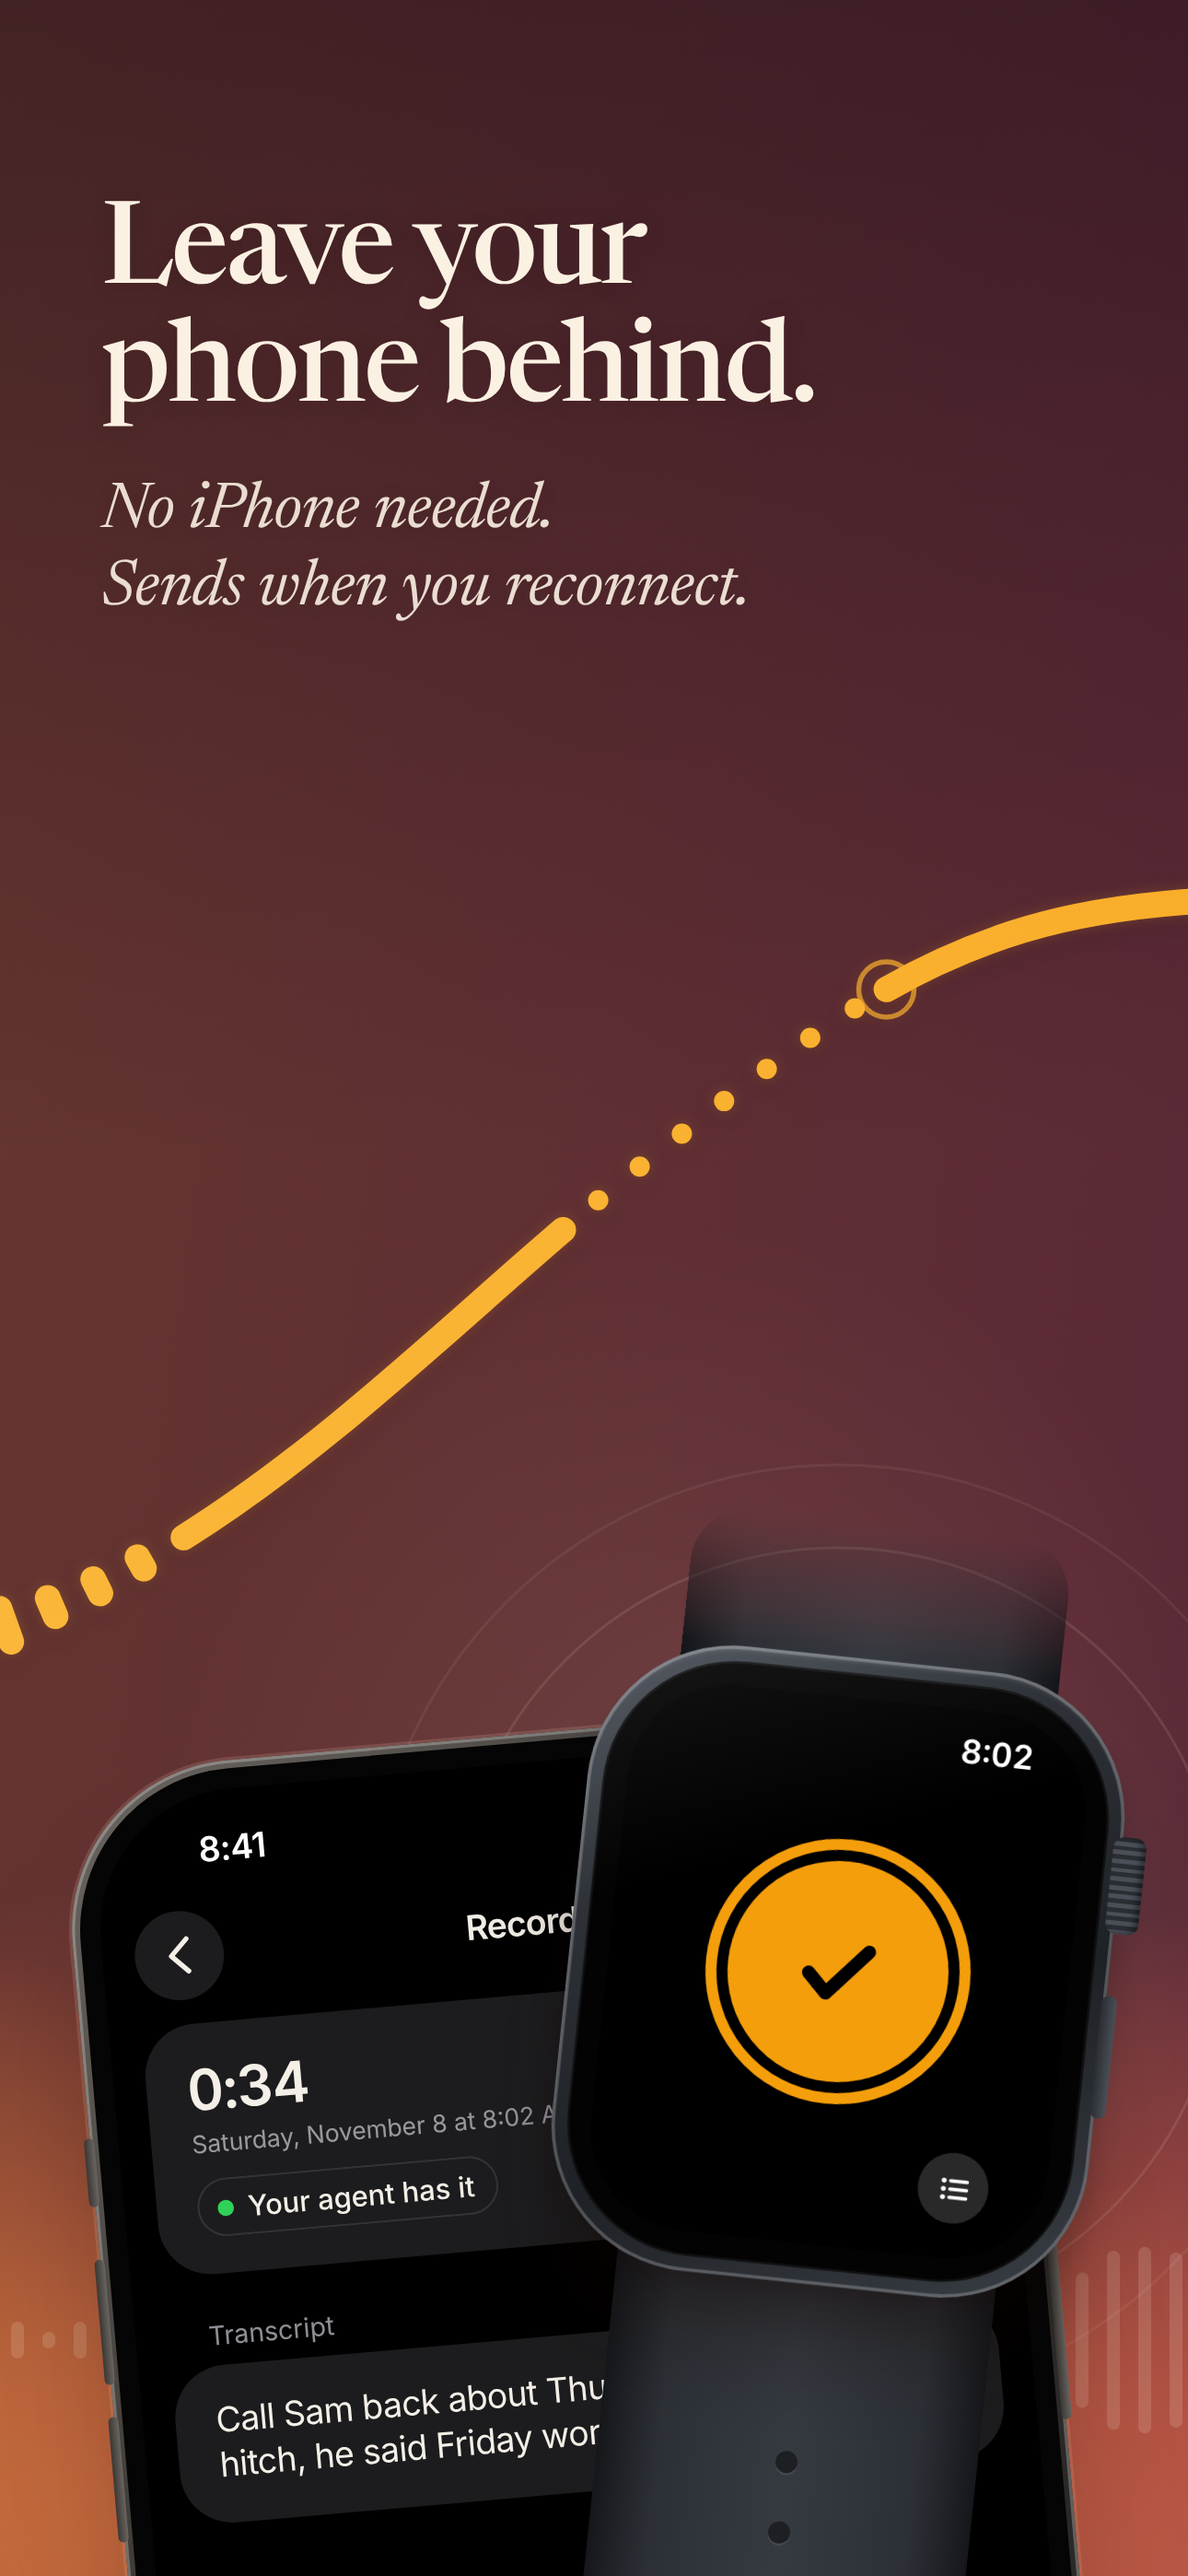
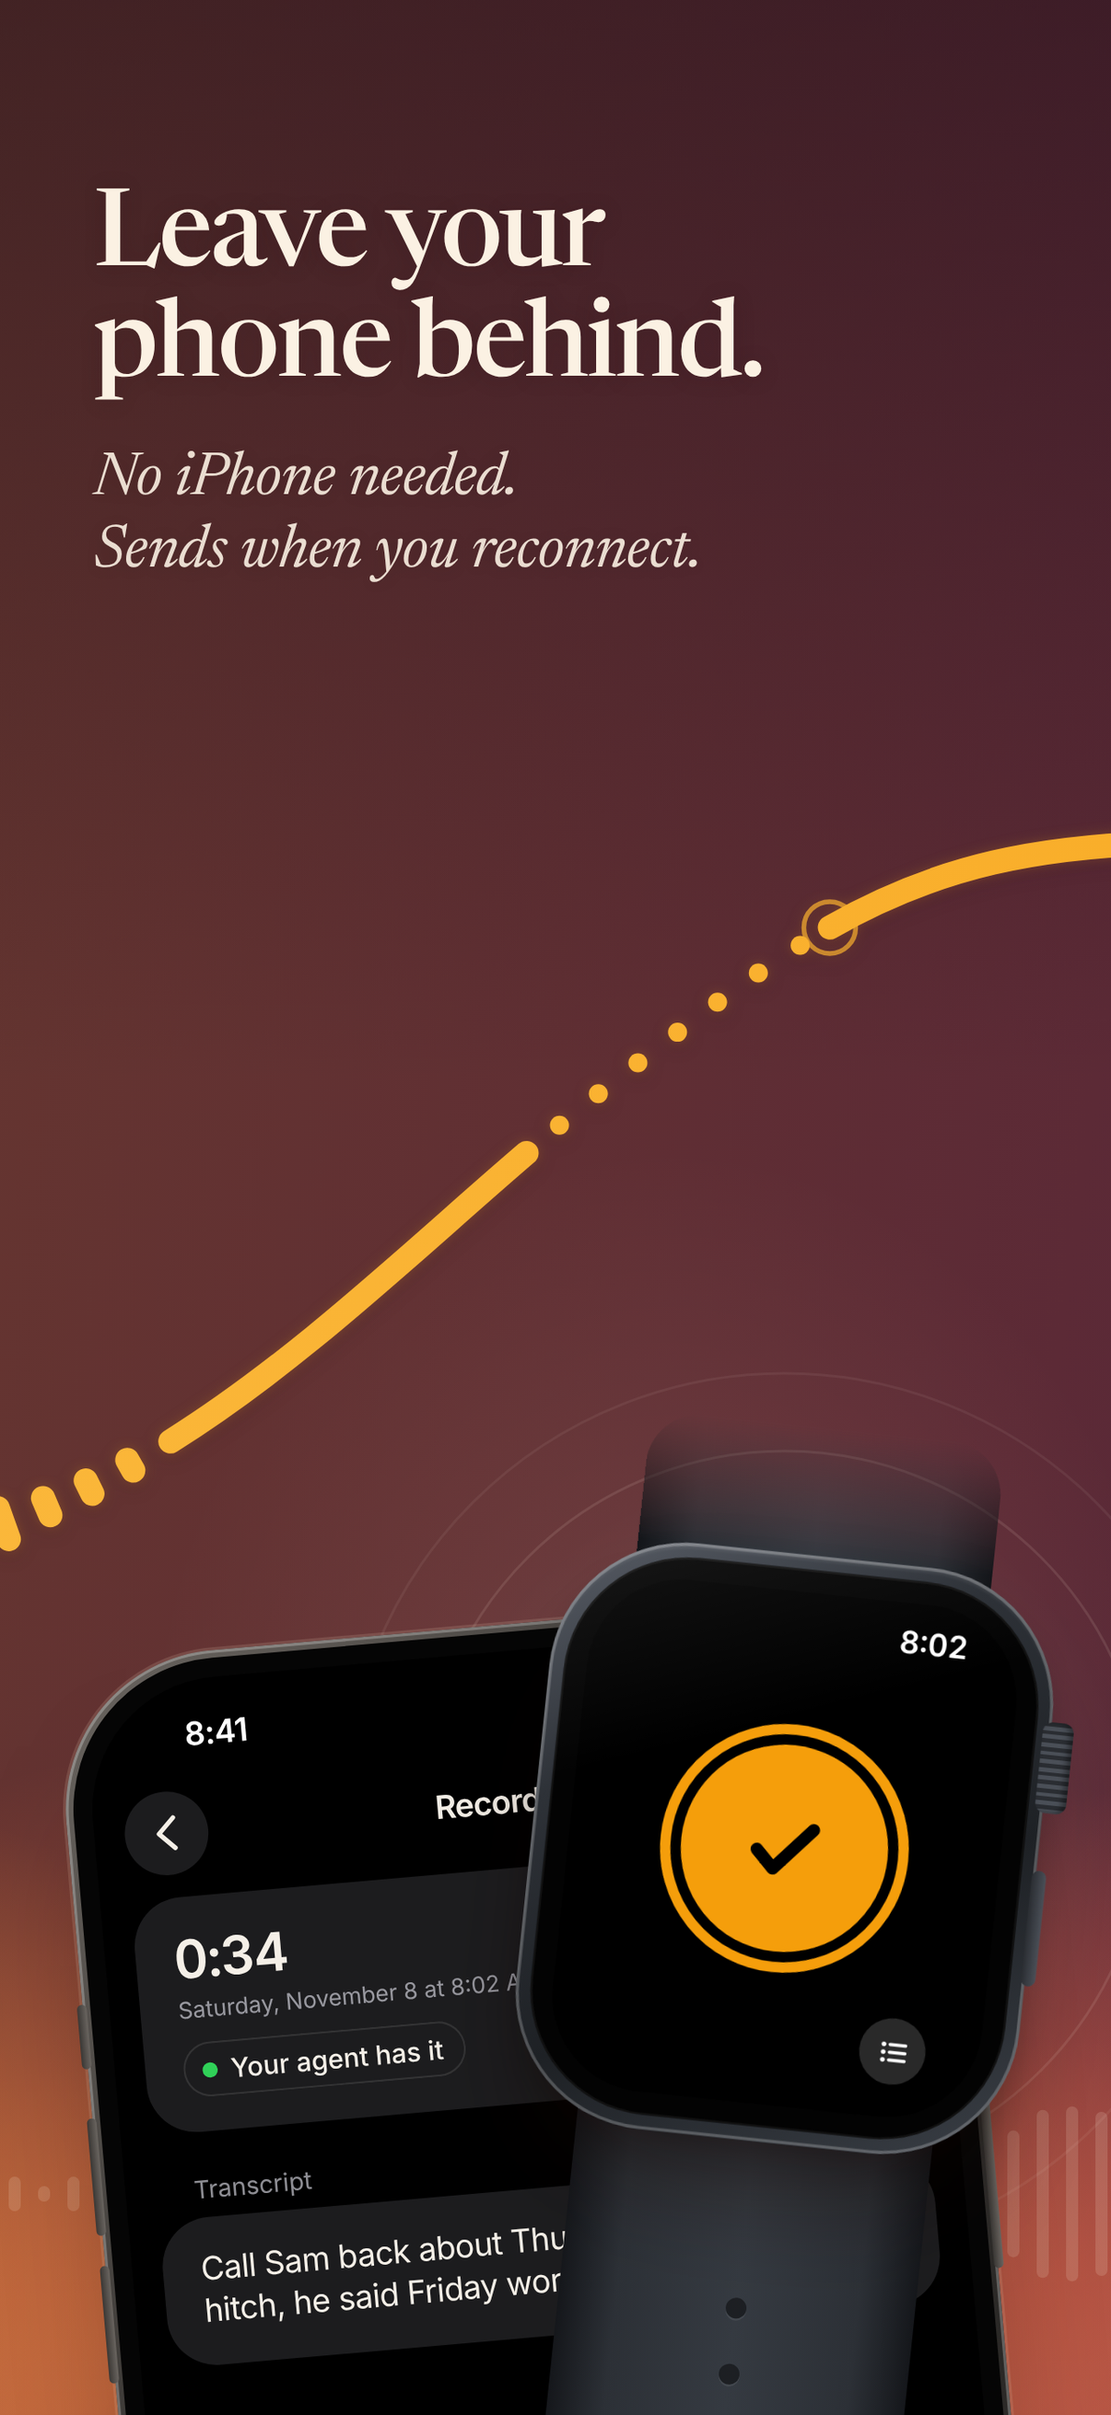
App Store screenshots: keep only 1206x2622, the size ASC accepted
Claude-Session: https://claude.ai/code/session_01TreUG4NyTzcHo16PuWXi9n

diff --git a/docs/app-store.md b/docs/app-store.md
@@ -96,7 +96,7 @@ Requires an Apple Watch paired with an iPhone.
 
 Short, one thought each, in this order. Mindfulness first: a short headline and a smaller second line. The first screenshot shows the watch, not the phone.
 
-The iPhone screenshots (1290 × 2796) and the product page header (5244 × 2950 and 3840 × 1646) are in `images/appstore/2026-sunset/`. Their HTML source is in `source/` there (open `one-line.html?bg=t` for the shipped look); change the copy here first, then re-render.
+The iPhone screenshots (1206 × 2622, the size App Store Connect accepted) and the product page header (5244 × 2950 and 3840 × 1646) are in `images/appstore/2026-sunset/`. Their HTML source is in `source/` there (open `one-line.html?bg=t` for the shipped look; it renders at 1290 × 2796, so scale to 1206 × 2622); change the copy here first, then re-render.
 
 1. Stay in the moment. (Talk to your watch. Your agent handles it later.)
 2. Leave your phone behind. (No iPhone needed. Sends when you reconnect.)
